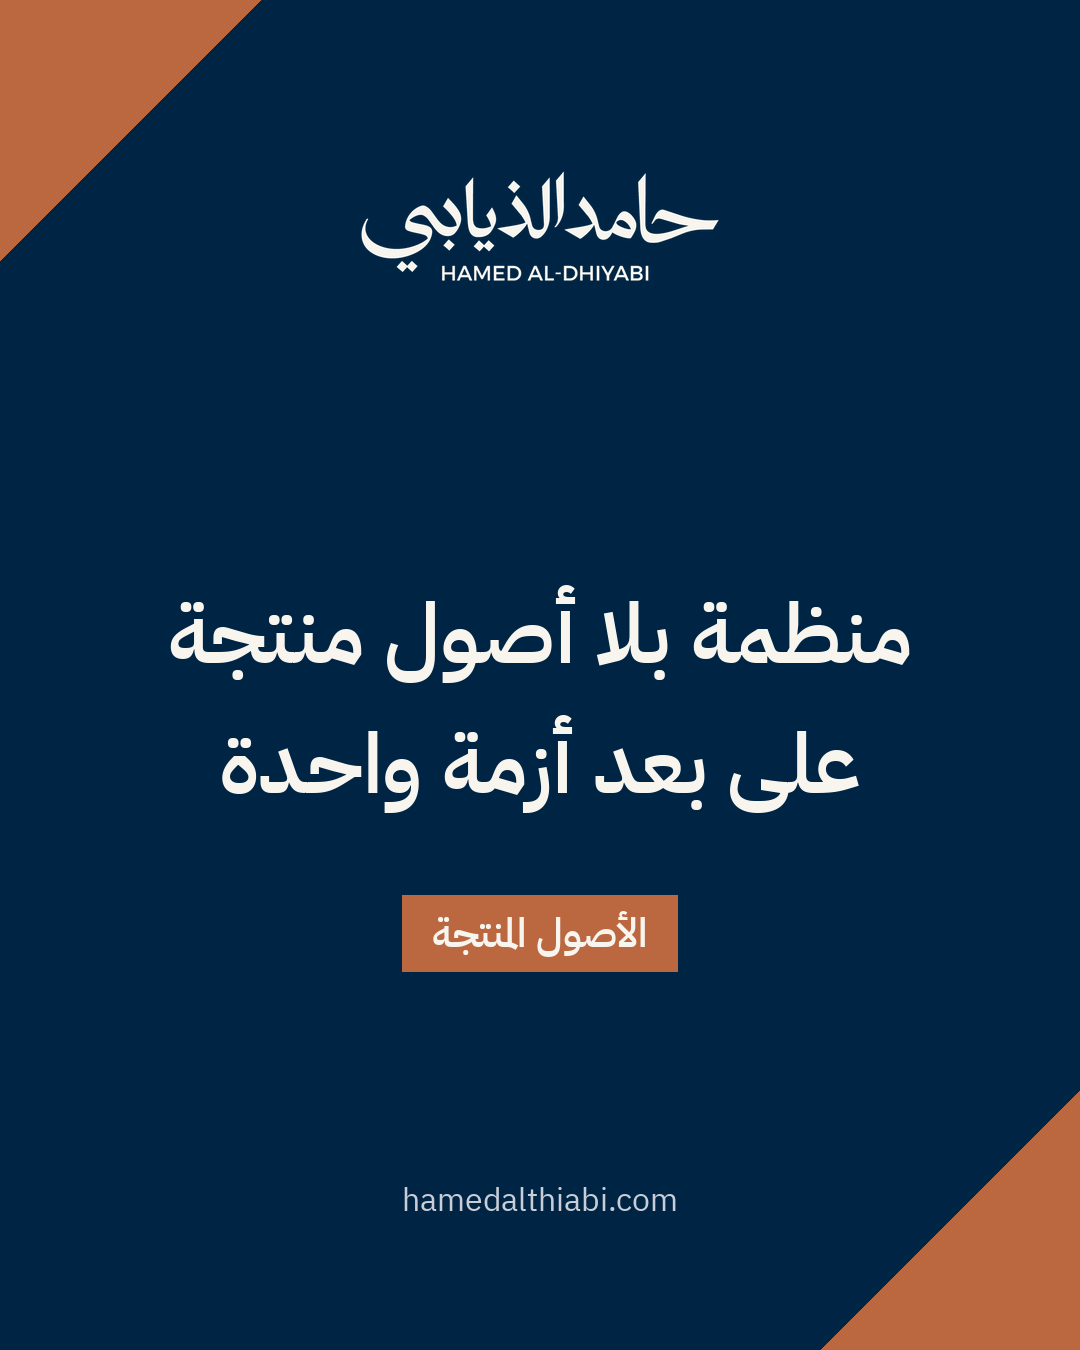
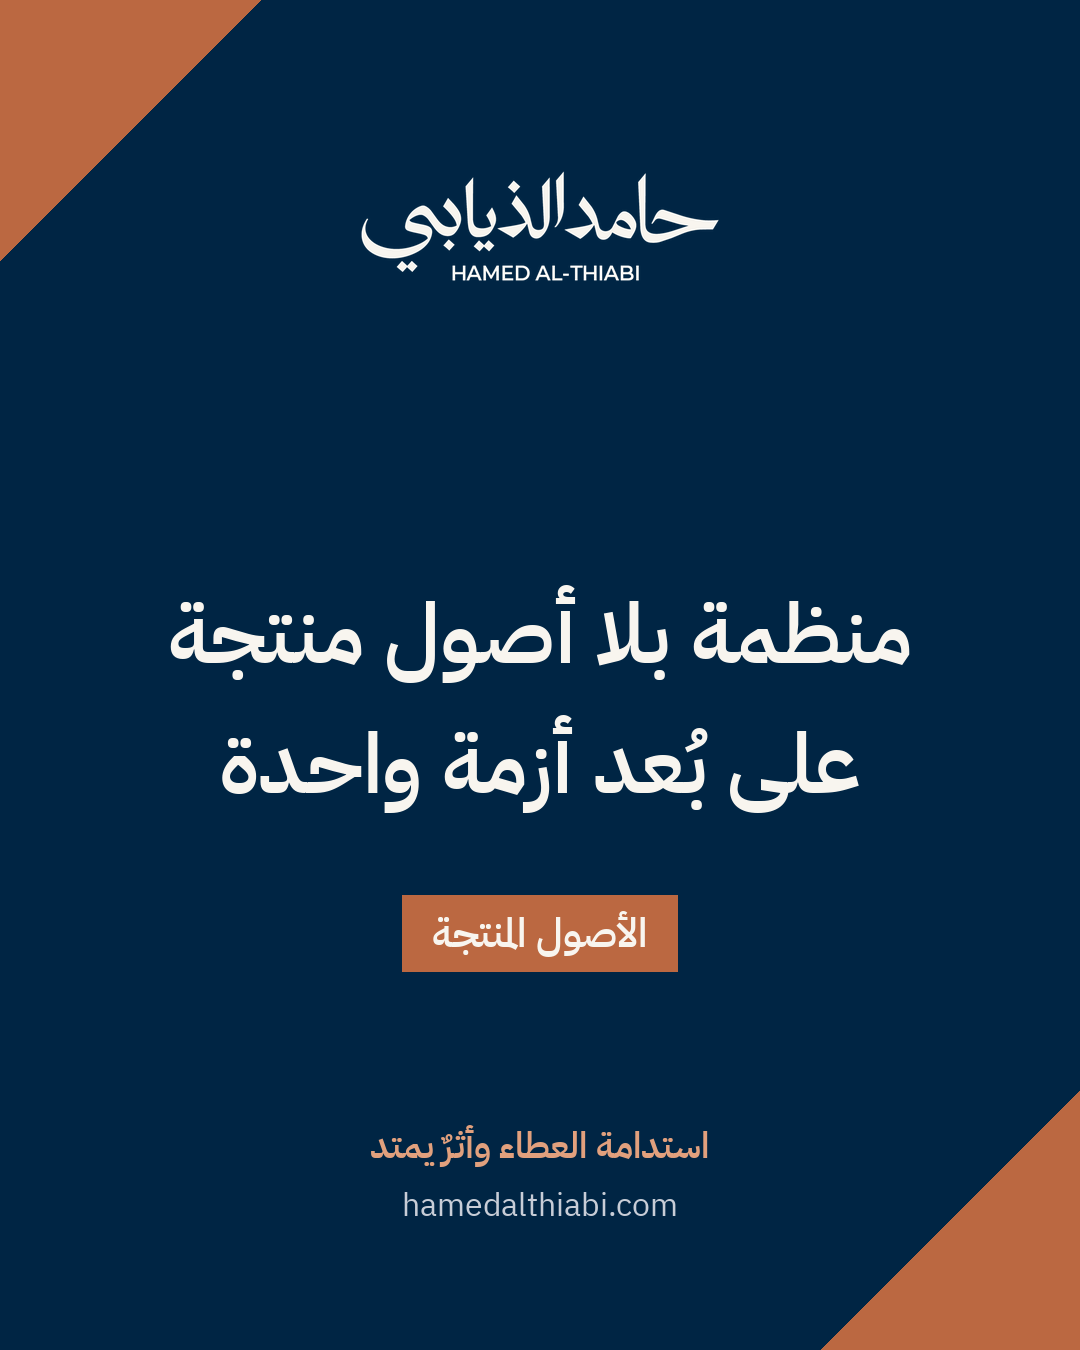
إعادة تصميم صورتي لينكدإن ٢ و٩ ديسمبر بشعار AL-THIABI بطلب تغريد
Claude-Session: https://claude.ai/code/session_01WaAQ5V4KrsFnrAHGz8wbg3

Changed region(s): [[0.3361, 0.84, 0.6722, 0.9022], [0.3972, 0.1867, 0.6111, 0.2178], [0.6417, 0.5289, 0.6722, 0.56]]

diff --git a/agent/wednesday_series.py b/agent/wednesday_series.py
@@ -17,7 +17,7 @@ P = [
   'خمسة مؤشرات تكشف الصحة المالية لأي جمعية في عشر دقائق.\n\nأستخدمها في أول تشخيص مع كل جمعية:\n\n١. تنويع المصادر: هل يستحوذ أكبر مصدر على أكثر من ٤٠٪ من الإيراد؟ إن كان كذلك فالتركّز مرتفع.\n٢. الخطة المالية: هل لديكم خطة لثلاث إلى خمس سنوات، أم موازنة سنوية فقط؟\n٣. استمرار المانحين: ما نسبة المانحين الذين يعودون من سنة إلى أخرى؟\n٤. الإدارة المالية: هل يصدر تقريركم المالي الشهري مكتملًا خلال أسبوع من نهاية الشهر؟\n٥. الدخل غير المقيّد: هل تزيد نسبته على ٣٠٪ من الإجمالي؟\n\nقيّموا كل مؤشر من ١ إلى ٥ ثم اجمعوا:\n٢٠–٢٥: استدامة قوية.\n١٥–١٩: استدامة متوسطة، وفجوات قابلة للإصلاح.\n١٠–١٤: هشاشة تحتاج تدخلًا عاجلًا.\nأقل من ١٠: خطر يتطلب تغييرًا جذريًا.\n\nكم كانت نتيجة جمعيتكم؟ وإن أردتم النسخة الكاملة من الأداة، فأهلًا بكم في الرسائل.\n\n#الاستدامة_المالية #التقييم_المالي #الحوكمة #الجمعيات_الأهلية'),
  ('2026-11-25', 13, 'ما لا تخبرك به التقارير المالية', 'الإدارة المالية',
   'راجعت مؤخرًا بنود الإيراد لثلاث جمعيات، وواحدة فقط كانت تعرف نسبة دخلها غير المقيّد بدقة.\n\nوليس هذا عيبًا في تلك الجمعيات، بل في طريقة بناء التقارير المالية في القطاع.\n\nالتقرير التقليدي يخبرك بإجمالي الإيراد، وإجمالي المصروف، والفائض أو العجز.\n\nولا يخبرك بـ:\n— نسبة كل قناة من الإيراد.\n— نسبة الدخل المقيّد إلى غير المقيّد.\n— نسبة الكلفة الإدارية إلى البرامج.\n— فترة تغطية الاحتياطي.\n— نسبة استمرار المانحين.\n\nوهذه هي المؤشرات الحقيقية للاستدامة.\n\nاقتراحي لكل مدير مالي: أضف إلى تقريرك الشهري لمجلس الإدارة «لوحة استدامة» من خمسة مؤشرات في نصف صفحة.\n\nوخلال أشهر قليلة ستلاحظ أن نقاشات المجلس وقراراته بدأت تتغير.\n\nأيّ مؤشر ترونه الأهم لرفعه إلى مجلس إدارتكم؟\n\n#الإدارة_المالية #الحوكمة #لوحة_المؤشرات #الجمعيات_الأهلية'),
- ('2026-12-02', 14, 'منظمة بلا أصول منتجة على بعد أزمة واحدة', 'الأصول المنتجة',
+ ('2026-12-02', 14, 'منظمة بلا أصول منتجة على بُعد أزمة واحدة', 'الأصول المنتجة',
   'قناعة بنيتها عبر سنوات العمل:\n\nالمنظمة التي لا تملك أصولًا منتجة على بُعد أزمة واحدة من التعثر.\n\nالأصل المنتج: كل ما يدرّ دخلًا متجددًا دون حاجة إلى متبرع جديد كل عام، مثل:\n— وقف عقاري.\n— صندوق استثماري.\n— ذراع ربحية.\n— منتج قابل للبيع.\n— اشتراك دوري في خدمة.\n— محفظة استثمارية متوافقة مع الشريعة.\n\nالجمعية التي تكتفي بجمع التبرعات عامًا بعد عام تعيش دورة استهلاكية: كل ريال يدخل يخرج، ولا يتراكم أصل.\n\nوالجمعية التي تخصص ولو ٥٪ من فائض كل عام لبناء الأصول، تبني استقلالها تدريجيًا، ويظهر الفارق بوضوح بعد عشر سنوات.\n\nسؤال لموازنة ٢٠٢٧: كم بندًا خصصتم لبناء أصول منتجة، لا للإنفاق على البرامج فحسب؟\n\nهذا هو الفرق بين جمعية تعمل من عام إلى عام، ومؤسسة تبني لعقود.\n\n#الأصول_المنتجة #الأوقاف #الاستدامة_المالية #الاستثمار_الاجتماعي'),
  ('2026-12-09', 15, 'من سيبقى من الجمعيات حتى ٢٠٣٠؟', 'رؤية مستقبلية',
   'توقعي: عدد كبير من الجمعيات القائمة اليوم لن يصمد حتى ٢٠٣٠.\n\nوالسبب ليس قلة الدعم.\n\nفالقطاع ينمو بسرعة: بلغت إيرادات منظمات القطاع غير الربحي ٧٣٫١ مليار ريال في ٢٠٢٤، بنمو ٢٢٪ عن العام السابق.\n\nومع هذا النمو يزداد التنافس على ثقة المتبرع، والمتبرع سيختار من يثق به.\n\nالجمعيات التي ستبقى تشترك في خمس صفات:\n١. تقرير سنوي معلن ومدقق خارجيًا.\n٢. مزيج إيرادي متنوع، لا اعتماد على مصدر واحد.\n٣. قياس للأثر، لا للمخرجات فقط.\n٤. حضور رقمي احترافي يصل إلى المتبرع الجديد.\n٥. ثقافة شفافية تعرض الدروس مع النجاحات.\n\nوالجمعيات المهددة تشترك في عكسها: لا تقرير معلن، واعتماد على مصدر واحد بأكثر من ٦٠٪، ولا مؤشر للأثر، وحضور رقمي خامل، ولا تعرض إلا النجاحات.\n\nالسؤال الذي يستحق أن يُطرح في كل مجلس إدارة: في أي الفئتين نحن؟ وما خطوتنا الأولى نحو الأولى؟\n\nمصدر الأرقام: الهيئة العامة للإحصاء، إحصاءات منظمات القطاع غير الربحي ٢٠٢٤\n\n#مستقبل_القطاع_غير_الربحي #الاستدامة_المالية #الحوكمة #رؤية_2030'),

diff --git a/agent/tools/card.py b/agent/tools/card.py
@@ -25,7 +25,8 @@ def make(title,tag,out,W=1080,H=1350):
     ft=F(600,40); tw=d.textlength(tag,font=ft,direction='rtl'); by=y0+total+50
     d.rectangle([W//2-tw/2-30,by,W//2+tw/2+30,by+76],fill=CORAL)
     d.text((W//2,by+38),tag,font=ft,fill=CREAM,anchor='mm',direction='rtl')
+    d.text((W//2,H-205),'استدامة العطاء وأثرٌ يمتد',font=F(600,36),fill=(225,160,125),anchor='mm',direction='rtl')
     fl=ImageFont.truetype(B+'plex-latin-400.ttf',32)
-    d.text((W//2,H-150),'hamedalthiabi.com',font=fl,fill=(200,205,215),anchor='mm')
+    d.text((W//2,H-145),'hamedalthiabi.com',font=fl,fill=(200,205,215),anchor='mm')
     im.save(out)
 if __name__=='__main__': make(sys.argv[1],sys.argv[2],sys.argv[3])

diff --git a/agent/supervisor/log.md b/agent/supervisor/log.md
@@ -79,4 +79,5 @@
 - التدقيق بالعين: صورة الميزانية سليمة (AL-THIABI، الشعار النصي صحيح، المصدر وزارة المالية)؛ صورة الاستطلاع سليمة؛ wed13 مرفوضة (الشعار القديم).
 - ما أصلحته: «missed» واتساب ٢٥ أُضيف إلى ack.json (نشر يدوي).
 - الدروس: AGENT.md وqa.md: فحص شعار الصور الجاهزة قبل الجدولة وإعادة ما صُمّم قبل ٢٢ نوفمبر.
-- ينتظر تغريد: إعادة تصميم wed14 وwed15 بالشعار الجديد (منشوران معتمدان)، وأسرار Netlify.
+- ينتظر تغريد: أسرار Netlify.
+- تحديث ٢٦ نوفمبر بطلب تغريد: أُعيد تصميم wed14 وwed15 بشعار AL-THIABI، وأضيف الشعار النصي إلى agent/tools/card.py.
